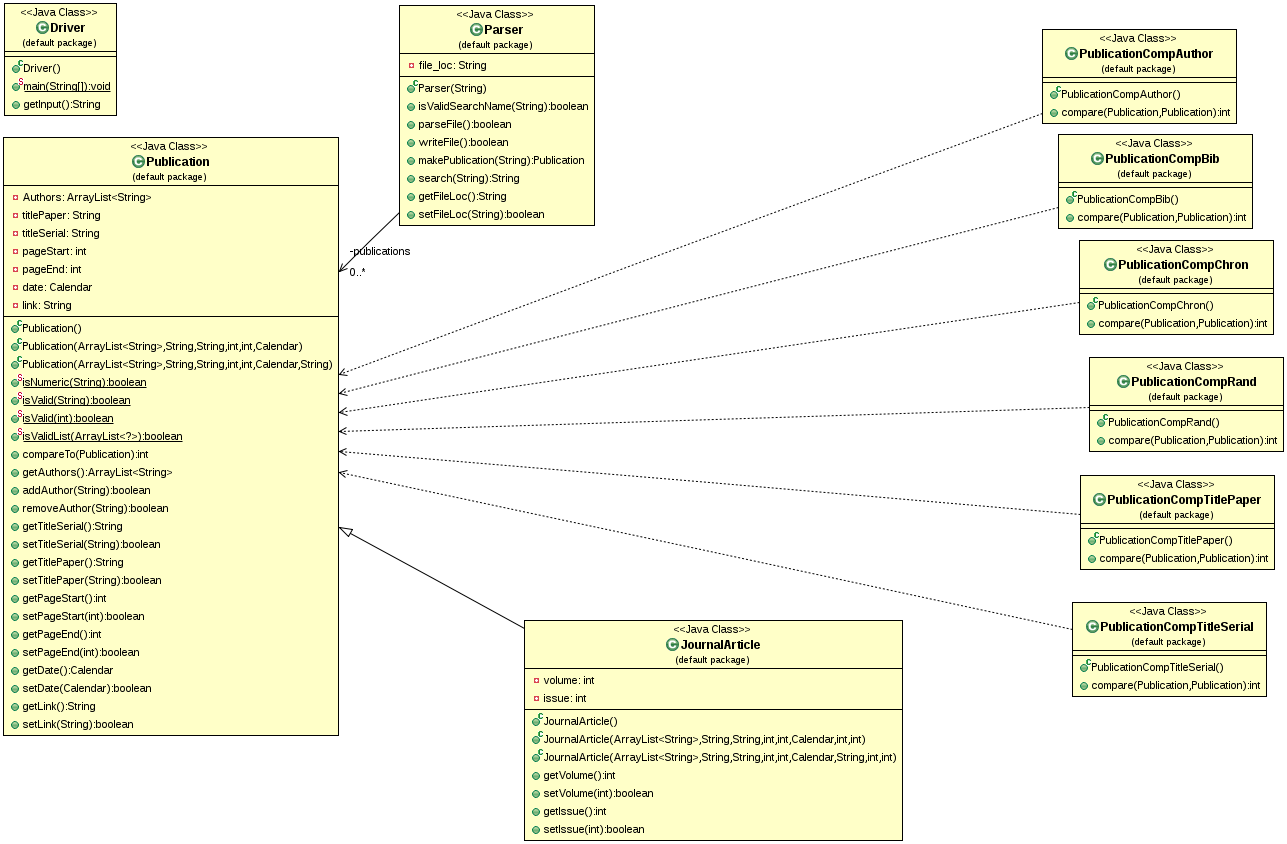
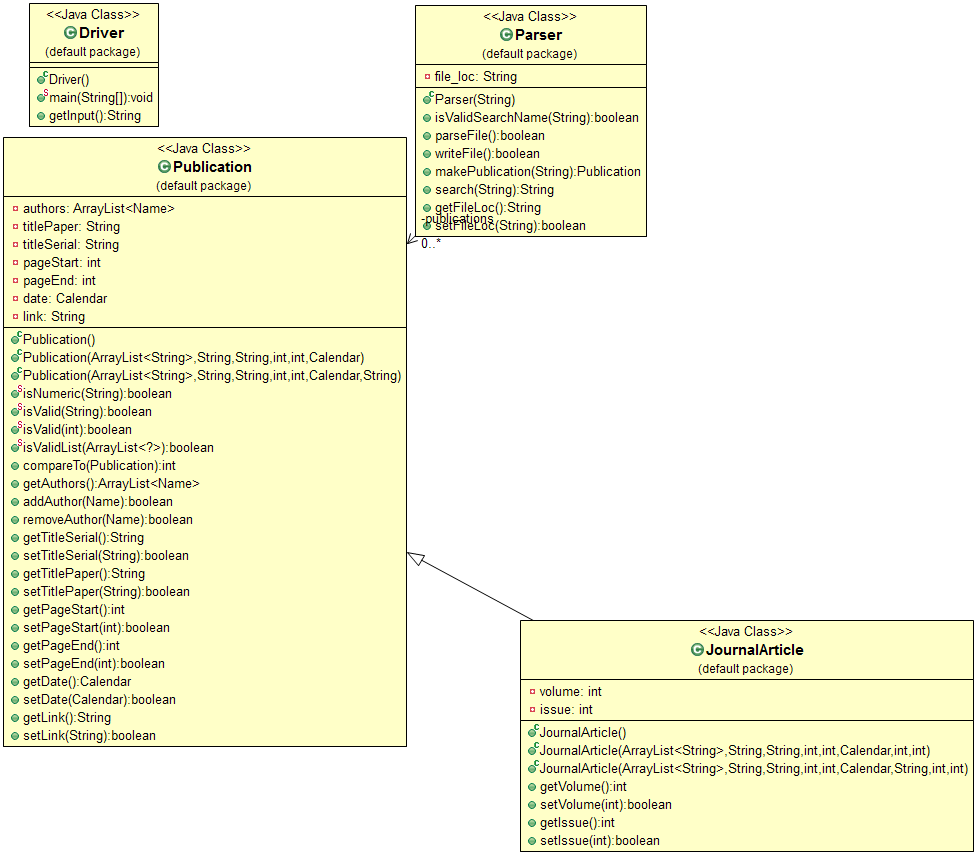
Removed unneeded constructors

diff --git a/Project2/src/Publication.java b/Project2/src/Publication.java
@@ -40,13 +40,6 @@ public class Publication implements Comparable<Publication> {
 	private String link;
 	
 	/**
-	 * default constructor 
-	 */
-	public Publication(){
-		
-	}
-	
-	/**
 	 * Publication constructor without link
 	 * 
 	 * @param authors list of authors

diff --git a/Project2/src/JournalArticle.java b/Project2/src/JournalArticle.java
@@ -5,10 +5,6 @@ public class JournalArticle extends Publication {
 	private int volume;
 	private int issue;
 	
-	public JournalArticle( ){
-		//init class vars
-	}
-	
 	/**
 	 * JournalArticle constructor without link
 	 * 
